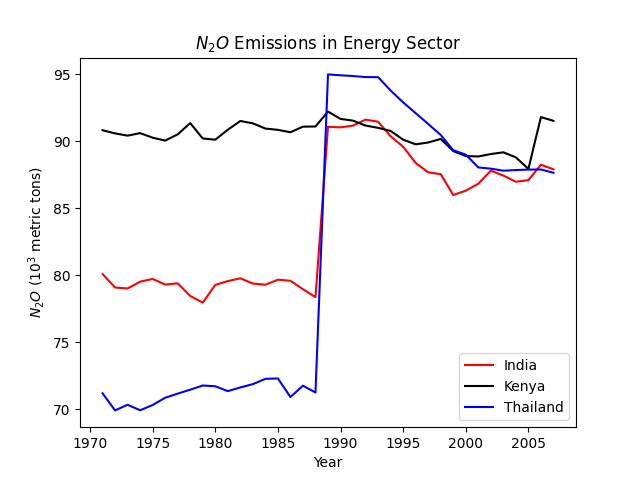
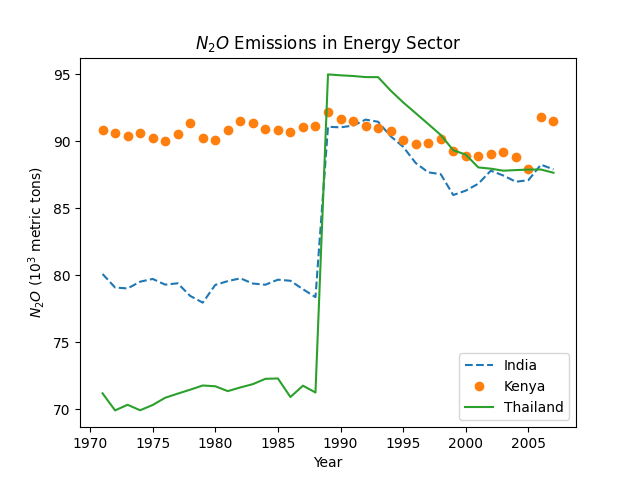
HW2

diff --git a/Hw1/Plotting WDI.py b/Hw1/Plotting WDI.py
@@ -17,9 +17,9 @@ YOI = [1971+x for x, it in enumerate(IND)]
 
 fig, ax = plt.subplots()
 
-ax.plot(YOI, IND, 'r')
-ax.plot(YOI, KEN, 'k')
-ax.plot(YOI, THA, 'b')
+ax.plot(YOI, IND, '--')
+ax.plot(YOI, KEN, 'o')
+ax.plot(YOI, THA, '-')
 ax.legend(['India', 'Kenya', 'Thailand'])
 ax.set_ylabel('$N_{2}O$ ($10^{3}$ metric tons)')
 ax.set_xlabel('Year')

diff --git a/HW2/generate_rand_num.py b/HW2/generate_rand_num.py
@@ -1,0 +1,9 @@
+"""
+This generates a list of random values between 0 and 1
+
+"""
+import numpy as np
+
+rand_list = np.random.rand(100)
+
+print([round(x,2) for x in rand_list])
